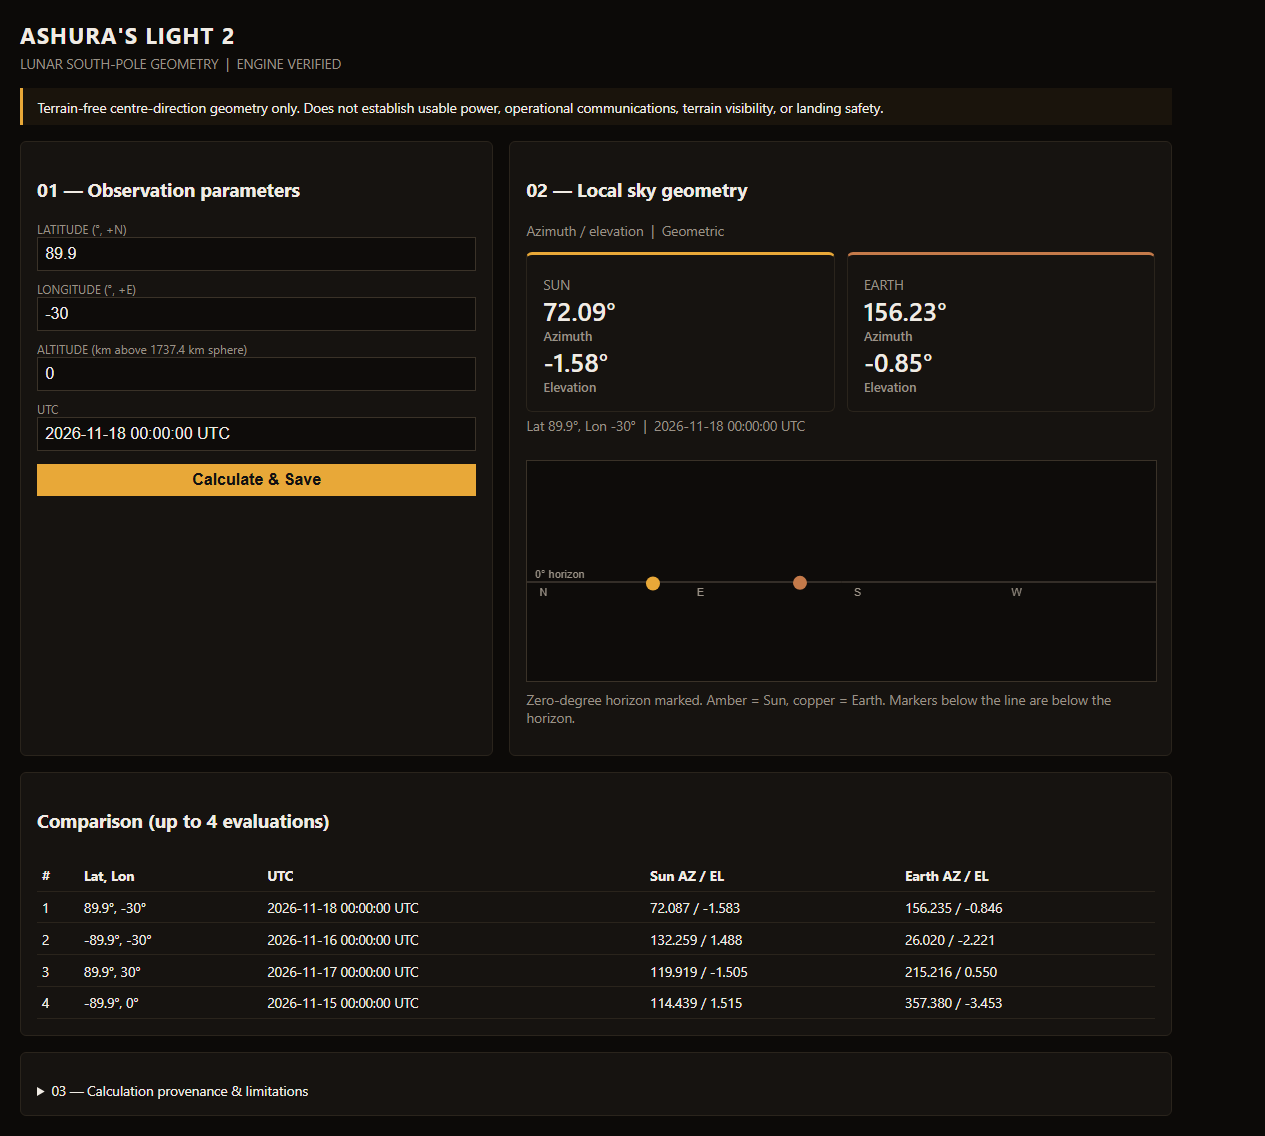
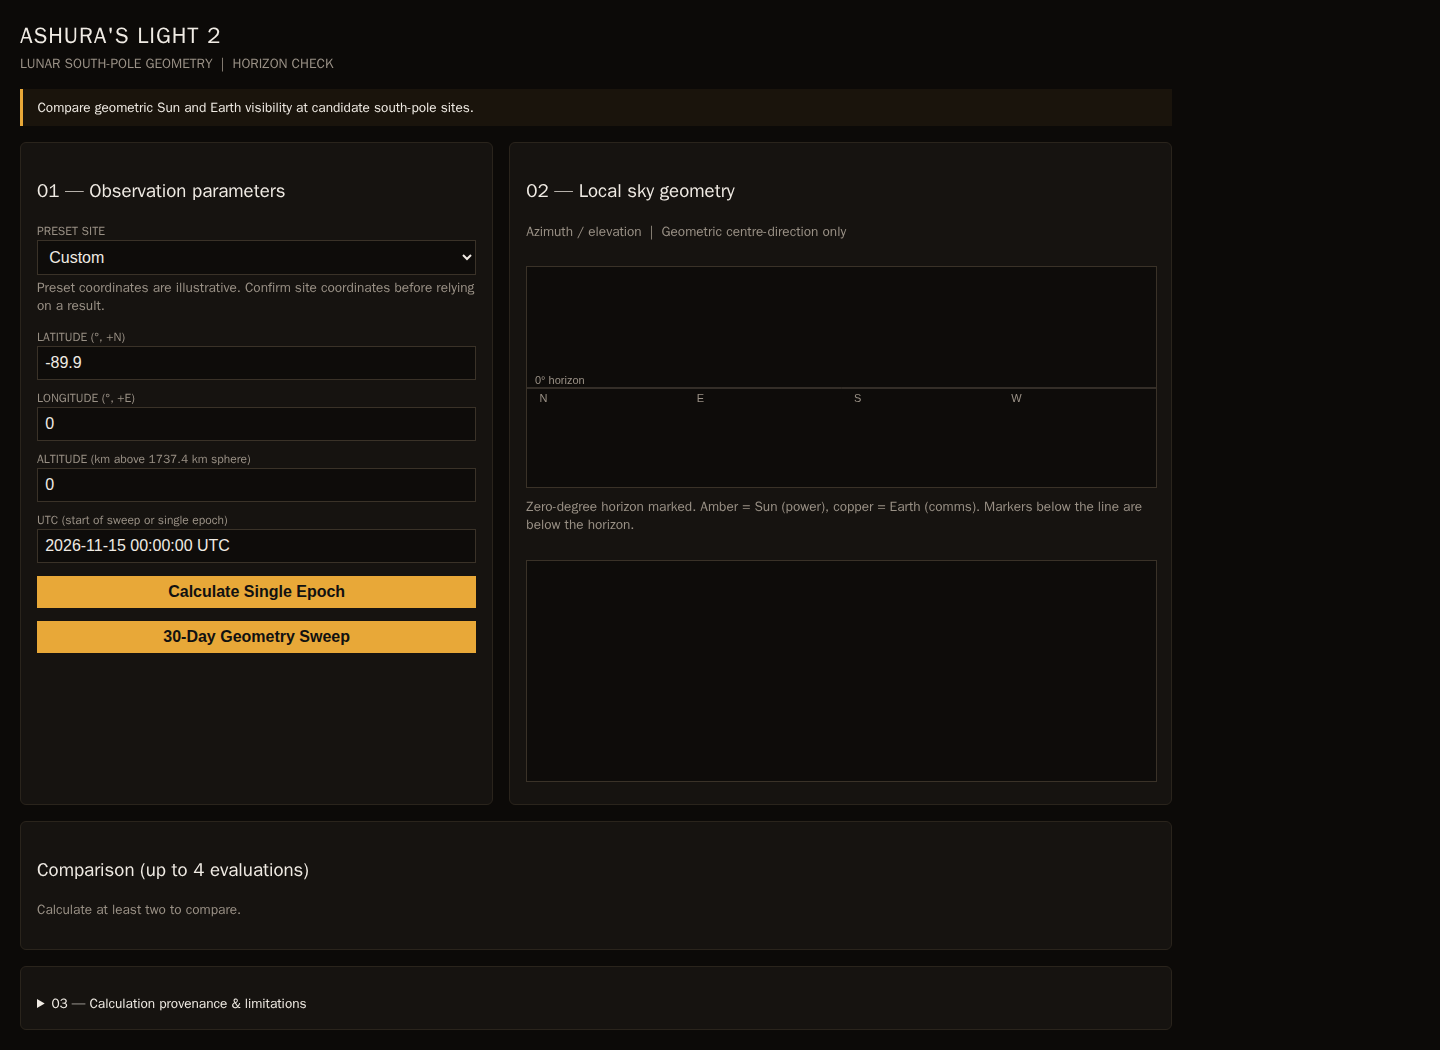
docs update

diff --git a/AL2_INTEGRATION_REPORT.md b/AL2_INTEGRATION_REPORT.md
@@ -1,116 +1,82 @@
 # AL2 Integration Report
 
-- **Project:** Ashura's Light 2
-- **Phase:** AL2-INTEGRATION-01
-- **Branch:** `integration/al2-release-candidate`
-- **Status:** Local integration and offline verification complete; awaiting Project Owner testing.
+**Project:** Ashura's Light 2
+**Phase:** AL2-INTEGRATION-02
+**Branch:** `integration/al2-release-candidate`
+**Integrated source commit:** `b96b657f3220cc1526b08b48ca641aed006abe81`
+**Base:** `origin/main` at `d50d9f484c48aee615fbcd7a862db89050a5a692`
 
-## Integration history
+## Integration and preservation
 
-| Commit | Purpose |
-|---|---|
-| `a9f0d76d05b3e5871be3c60381084ac59f308861` | Merge local AL2 kernel integrity checkpoints; parents: `366fb1339bb8fec32a88ff7f3d4fefb4b55c275f` and `f71e4fd0c8a8e9f97ae3ba0636e709042b9f5161`. |
-| `ed304416699f51027ef425936e13e3788635d55d` | `Prepare offline judge-ready release package`. |
-| `a0565ae52987b1e68cba1a1694711cd8964fa8d5` | Exclude internal reconciliation, preservation, and release reports from the Docker build context. |
-| `61611221b00c800dc5268f641e722019b19318d3` | Update readiness evidence with the final image and archive verification. |
+- The working tree was clean before integration. The current branch was `docs/submission-cleanup` at `b96b657`.
+- A recoverable Git bundle and backup branch `backup/al2-pre-integration` were created at that source commit. The verified external kernel stack was copied to `/tmp/al2-integration-backup-20261116T0241/kernels`; its manifest is `/tmp/al2-integration-backup-20261116T0241/manifest.txt`.
+- `dist/` did not exist before this task. A new local distribution was created after integration. The verified kernels were available under `/tmp/ashuras-light2-kernels`; the documented bootstrap command also populated the ignored project `kernels/` directory.
+- `origin/main` is an ancestor of the integration source commit. There were no commits on `origin/main` missing from the source branch and no merge conflicts. The sole source commit ahead was `b96b657`.
+- Its source changes were reviewed by path: README, app startup/API error guidance, user-visible labels, kernel/judge docs, deletion of obsolete planning/internal red-team docs, and a 30-day API regression test.
+- `src/al2/geometry.py` and the scientific calculation implementation are unchanged from `origin/main`. The active sweep, presets, comparison, timeline, statistics, JSON export, and kernel integrity checks remain present.
+- No push, merge to `main`, deployment, or submission was performed.
 
-Preserved checkpoint ancestry:
+## Regression verification
 
-- `60e42a2624514a21154df450c1c07a45c7fc1f09`: ancestor of integration `HEAD`.
-- `f71e4fd0c8a8e9f97ae3ba0636e709042b9f5161`: ancestor of integration `HEAD`.
-- `820f45b83a17313da166dc37b65056beb709e34f`: ancestor of integration `HEAD`, through `origin/main`.
-- `366fb1339bb8fec32a88ff7f3d4fefb4b55c275f`: ancestor of integration `HEAD`.
+Host environment, with verified kernels:
 
-The remote feature commit was not merged again; `origin/main` already contained it. The pre-integration worktree stash remains intact: `0b17039bcba0233a7b09b5f3b3e0c35e2c146f9a`.
+- `python -m pytest -q`: **21 passed**.
+- `POST /api/compute`: **HTTP 200**.
+- `POST /api/sweep` with `days=30`, `step_hours=1`: **HTTP 200**, 721 samples.
+- For `(lon 0°, lat -89.9°, alt 0 km, 2026-11-15 00:00:00 UTC)`, sweep percentages were Sun above horizon **100.0%** and Earth above horizon **42.6%**. Both are finite and in `[0, 100]`.
+- Missing and SHA-256-corrupted kernel directories caused startup kernel verification to fail closed (`KERNELS_OK=False`).
 
-## Conflict resolution
+## Browser/UI verification
 
-`templates/index.html` was reconciled against the latest fetched `origin/main` template. The warm lunar palette and other remote template content were retained, with the responsive, keyboard-focusable comparison-table wrapper restored from the stashed worktree. The resulting template diff against `origin/main` is the table wrapper only.
+The actual Flask application was tested in Chromium at 1440 px desktop and 390 × 844 px mobile viewports using real API results.
 
-## Integrated release file inventory
+- Preset selection updated the site coordinates and calculations returned successfully.
+- Four single-epoch site evaluations appeared in the comparison table.
+- The 30-day sweep returned 721 samples and finite, bounded statistics. At the selected Haworth approximate preset, the UI displayed Sun **69.8%**, Earth **59.2%**, and the elevation timeline.
+- Timeline canvas rendered non-background series pixels.
+- JSON export downloaded as `al2-result.json`; the file parsed and included Sun, Earth, and provenance data.
+- No browser console errors, page errors, or failed requests occurred.
+- Mobile document width was **390 px** at a 390 px viewport. The comparison region was **316 px** wide with **672 px** of internally scrollable table content; there was no page-wide horizontal overflow.
 
-The release implementation and evidence commits add or modify these 20 paths relative to `origin/main`:
+### Refreshed screenshots
 
-**Added**
+Captured from the current UI after regression checks:
 
-- `.dockerignore`
-- `.gitignore`
-- `AL2_JUDGE_READINESS_REPORT.md`
-- `AL2_KERNEL_INTEGRITY_REPORT.md`
-- `AL2_TEST_REPORT.md`
-- `docs/JUDGE_QUICKSTART.md`
-- `docs/KERNEL_NOTICES.md`
-- `docs/screenshots/al2-test-01-mobile-comparison.png`
-- `docs/screenshots/al2-test-01-mobile-provenance.png`
-- `docs/screenshots/al2-test-01-mobile-results.png`
-- `docs/screenshots/al2-test-03-desktop-final.png`
-- `docs/screenshots/al2-test-03-mobile-final.png`
-- `src/al2/kernel_manifest.py`
-- `tests/test_kernel_integrity.py`
+1. [Desktop landing/default UI](docs/screenshots/al2-test-03-desktop-final.png) — replaced.
+2. [Desktop completed 30-day sweep](docs/screenshots/al2-sweep-desktop.png).
+3. [Desktop sweep statistics and timeline](docs/screenshots/al2-sweep-stats-timeline-desktop.png).
+4. [Desktop four-site comparison](docs/screenshots/al2-comparison-desktop.png).
+5. [Mobile landing/default UI](docs/screenshots/al2-test-03-mobile-final.png) — replaced.
+6. [Mobile sweep and internally scrollable comparison](docs/screenshots/al2-sweep-mobile.png).
 
-**Modified**
+The pre-refresh hashes for all previously tracked screenshots are recorded in the recovery manifest noted above.
 
-- `README.md`
-- `app.py`
-- `docs/KERNEL_MANIFEST.md`
-- `scripts/bootstrap_kernels.py`
-- `src/al2/geometry.py`
-- `templates/index.html`
+## Docker judge package
 
-`AL2_INTEGRATION_REPORT.md` itself is tracked separately in an internal evidence commit; it is not part of the 20-path release inventory or the judge package commit.
+- Build: `docker build -t ashura-light2:judge .` — **passed**.
+- Image ID: `sha256:66d1edbb774275719fae165210dfad23ee6a9c5782e029c40c6571e064d328ef`.
+- Archive: `dist/ashura-light2-judge.tar` (**99,616,768 bytes**).
[1 lines of base64/hex data omitted]
+- `dist/SHA256SUMS` matches the archive.
+- Clean-load: the image tag was removed, loaded from the archive, and restored with the same image ID.
+- After clean-load, `docker run --rm --network none ashura-light2:judge python -m pytest -q`: **21 passed**.
+- Offline image verification found all five manifest kernels and matched every SHA-256. A live Flask server in a `--network none` container returned home **HTTP 200**, `/api/compute` **HTTP 200**, and `/api/sweep` **HTTP 200** with 721 samples and the reference percentages above.
 
-The judge package commit staged only the nine requested judge-facing files. The reconciliation, preservation, release-review, and integration reports are not part of that package commit. The reconciliation, preservation, release-review, readiness, and integration reports are excluded from the Docker build context. `dist/ashura-light2-judge.tar` and `dist/SHA256SUMS` remain ignored and are not in Git history.
+## README command verification
 
-## Scientific boundary and kernel verification
+- On Linux, the documented default `python scripts/bootstrap_kernels.py` completed and verified all five files in `kernels/`.
+- The documented Python tests passed with that verified stack.
+- The README Docker image tag `ashuras-light2` was built and run at loopback port 5001 because the host app occupied 5000; its home page and both APIs returned HTTP 200, including the 721-sample sweep. The packaged `ashura-light2:judge` archive was separately clean-loaded and tested offline.
+- PowerShell commands were reviewed but not executed in this Linux environment.
 
-`src/al2/geometry.py` is unchanged relative to the preserved `f71e4fd` integrity checkpoint. The integration does not alter calculation formulas, coordinate conventions, or scientific constants:
+## Security review findings
 
-- Ephemeris: DE421
-- Frame: `MOON_ME_DE421`
-- Correction: `NONE`
-- Reference radius: 1737.4 km
+The focused sweep-flow security review reported **no confirmed exploitable vulnerabilities**. Its scope was the 30-day sweep execution flow, inputs, data handling, and side effects; it was not a comprehensive security audit of the full product.
 
-The five image kernels were verified against `docs/KERNEL_MANIFEST.md` during the final image build and again after clean-loading the archive:
+## Scientific baseline and limitations
 
-| Kernel | Expected and actual SHA-256 | Result |
-|---|---|---|
[5 lines of base64/hex data omitted]
+The scientific baseline was not changed: DE421, frame `MOON_ME_DE421`, geometric correction `NONE`, and reference radius 1737.4 km. The outputs remain terrain-free centre-direction geometry. Horizon visibility does not establish usable power, operational communications, terrain-masked visibility, or landing safety. Preset coordinates marked approximate should be confirmed before use. Docker still uses Flask's development server and is intended for local demonstration, not production deployment.
 
-## Regression results
+## Current state
 
-- **Automated suite in final clean-loaded image:** 12 passed, 0 failed, 0 skipped.
-- Host `.venv` run without local kernels: 9 passed, 3 skipped. These skips were not counted as passes; the full in-image suite ran with the verified kernel stack.
-- Corrupted `de421.bsp`: calculation API returned **HTTP 503** with a SHA-256 mismatch; no result was produced.
-- Network-disabled live Flask server: `/` returned **HTTP 200**; three `/api/compute` requests returned **HTTP 200**.
-- Reference case, `(lon 0°, lat -89.9°, alt 0 km, 2026-11-15 00:00 UTC)`:
-  - Sun: `114.4394201° / +1.5149980°` AZ/EL.
-  - Earth: `357.3803908° / -3.4529761°` AZ/EL.
-- Signed coordinate cases `(-30°, -89.9°)` and `(+30°, +89.9°)` were preserved and returned finite results. Invalid longitude returned **HTTP 400**.
-- Browser UI: four evaluations appeared in the comparison table, including negative elevations and signed coordinates. The JSON export produced `al2-result.json`; its content parsed as JSON and included provenance.
-- At a 390 × 844 viewport, document client and scroll widths were both 375 px (vertical scrollbar included). The comparison region was 302 px wide with 672 px scrollable content and keyboard focusability; no page-wide horizontal overflow occurred.
-
-## Docker distribution
-
-- Image: `ashura-light2:judge`
-- Image ID: `sha256:6a4b2f9bb25da3fe96a92b90dc0509295889800cd978a234772f138cce16691a`
-- Archive: `dist/ashura-light2-judge.tar`
-- Archive size: **97,968,128 bytes**
[1 lines of base64/hex data omitted]
-- `dist/SHA256SUMS` contains the matching archive digest.
-- Clean-load check removed the judge image tag and loaded the archive; Docker restored the same image ID. The full test suite, kernel/hash checks, and offline API checks then passed against the restored image.
-
-The app and calculations work with `--network none`. This Docker host cannot publish a browser port from `--network none`; local browser testing therefore used a loopback-published bridge port. No runtime kernel download is required.
-
-## Current state and limitations
-
-- Integration branch is local; no push, merge to `main`, deployment, publication, or submission occurred.
-- The integration/readiness reports remain local and unpushed.
-- The pre-integration stash remains available and was not dropped.
-- No production WSGI server is configured; the Docker image starts Flask's development server for this local judge demonstration.
-- Judges requiring strict container network isolation and simultaneous host-browser access will need an owner-approved networking alternative.
-
-**Ready for Project Owner testing and demo recording.**
+`integration/al2-release-candidate` is locally testable and ready for Project Owner acceptance. Screenshot files, this report, the local ignored Docker package, and verified kernel files are present locally. No changes were pushed or merged.
